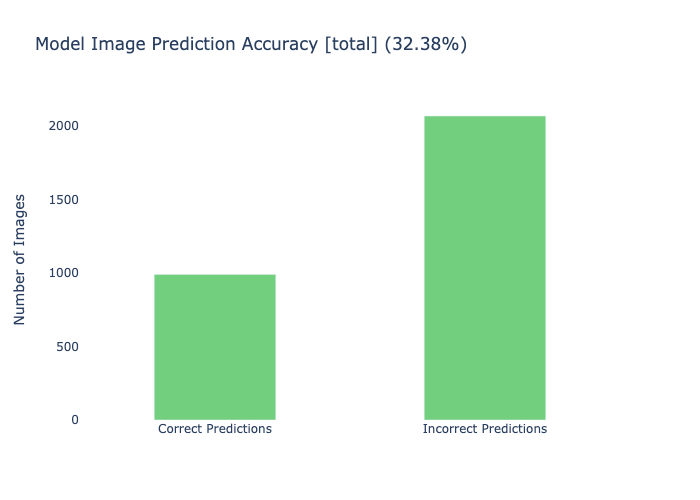
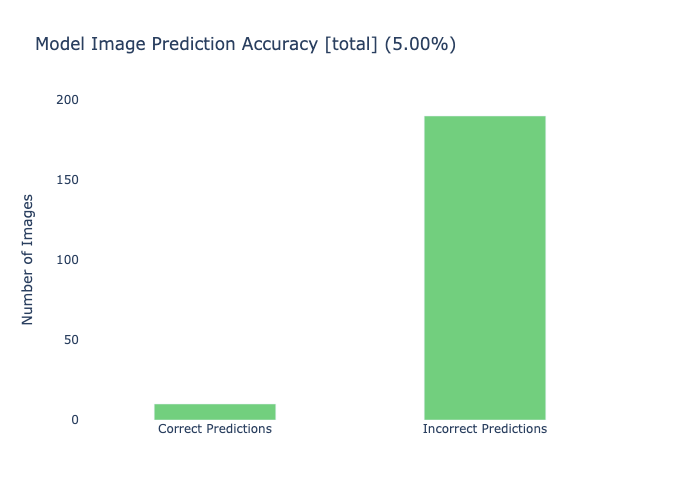
test

diff --git a/service/test/image_processing_service_test.py b/service/test/image_processing_service_test.py
@@ -303,7 +303,7 @@ class ProcessingServiceTest:
                 url = f"{THUMB_URL}{THUMB_PREFIX}{image_id_aerial_from}"
                 with urllib.request.urlopen(url) as url_response:
                     img_data = url_response.read()
-                    verdict_to_aerial = random.randint(0, 2)
+                    verdict_to_aerial = random.randint(1, 2)
                     #
                     # handle_processed_image(collections, "exterior", image_id_aerial_from,
                     #                        "exterior" if verdict_to_aerial == 1 else "interior")
@@ -338,7 +338,7 @@ class ProcessingServiceTest:
                 url = f"{THUMB_URL}{THUMB_PREFIX}{image_id_raised_from}"
                 with urllib.request.urlopen(url) as url_response:
                     img_data = url_response.read()
-                    verdict_to_raised = random.randint(0, 2)
+                    verdict_to_raised = random.randint(1, 2)
                     #
                     # handle_processed_image(collections, "exterior", image_id_aerial_from,
                     #                        "exterior" if verdict_to_aerial == 1 else "interior")
@@ -373,7 +373,7 @@ class ProcessingServiceTest:
                 url = f"{THUMB_URL}{THUMB_PREFIX}{image_id_ground_from}"
                 with urllib.request.urlopen(url) as url_response:
                     img_data = url_response.read()
-                    verdict_to_ground = random.randint(0, 2)
+                    verdict_to_ground = random.randint(0, 1)
                     #
                     # handle_processed_image(collections, "exterior", image_id_aerial_from,
                     #                        "exterior" if verdict_to_aerial == 1 else "interior")

diff --git a/vizualization_tools/model accuracy_validation.py b/vizualization_tools/model accuracy_validation.py
@@ -2,7 +2,7 @@ import plotly.express as px
 import plotly.io as pio
 
 # Number of total images
-total_images = 3057
+total_images = 200
 # total_images = 3555
 
 # Number of correctly predicted images
@@ -11,7 +11,7 @@ total_images = 3057
 # correct_predictions = 3100 + 2500 + 2100
 # correct_predictions = 305
 # correct_predictions = 285
-correct_predictions = 400 + 285 + 305
+correct_predictions = 10
 
 # Calculate the accuracy percentage
 accuracy_percentage = (correct_predictions / total_images) * 100
@@ -23,6 +23,7 @@ fig = px.bar(
     labels={"x": "Prediction Results", "y": "Number of Images"},
     title=f"Model Image Prediction Accuracy [total] ({accuracy_percentage:.2f}%)",
     color_discrete_sequence=["#72cf7e", "#72cf7e"]
+    # color_discrete_sequence=["#f0b851", "#f0b851"]
 )
 
 # Customize the background color to white
